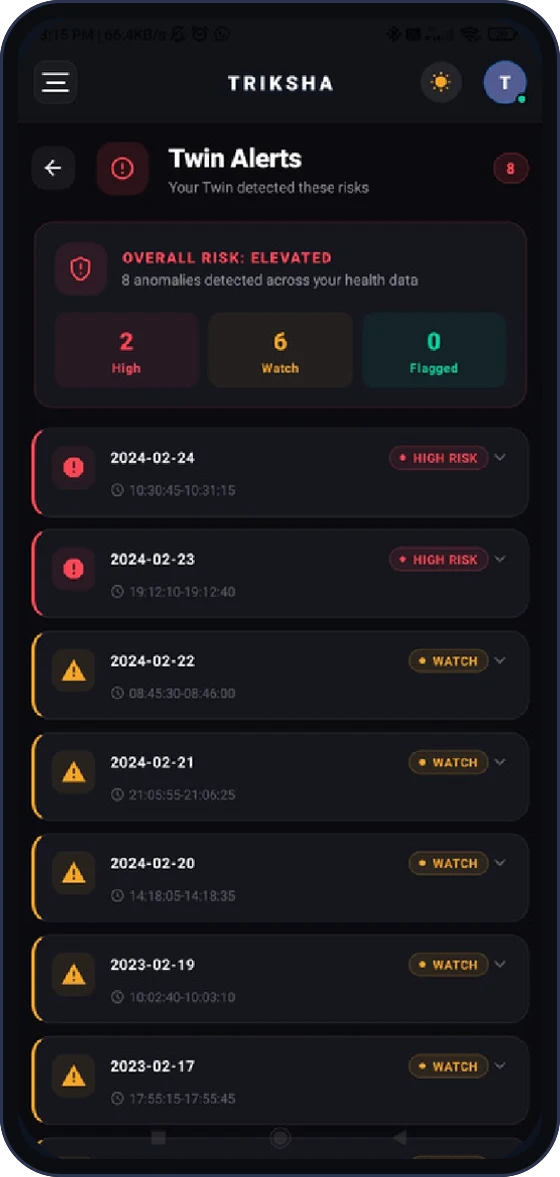
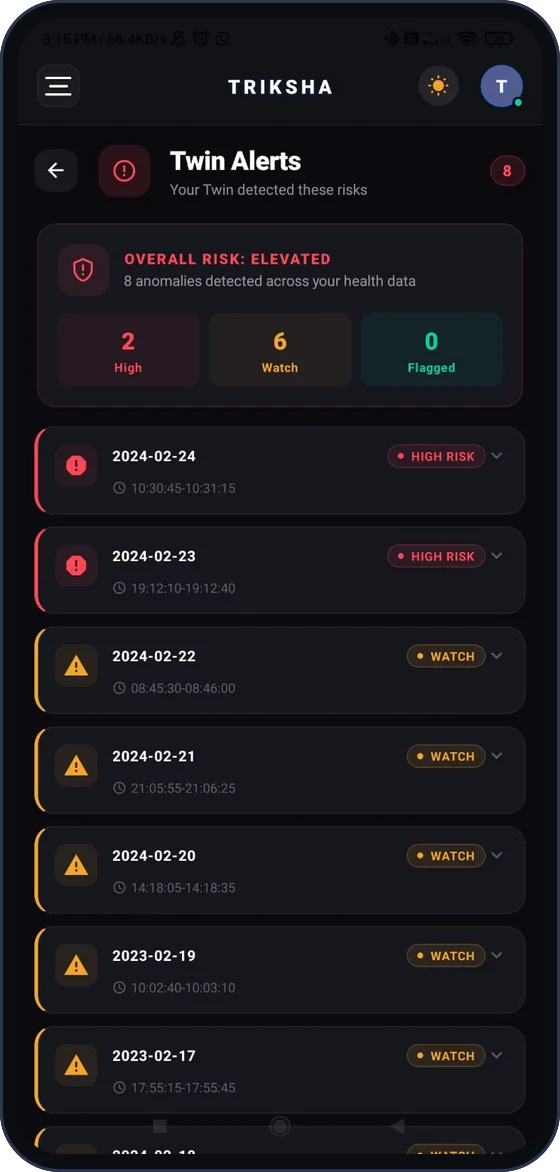
Use clear Twin Alerts screenshot in How it works step 3

diff --git a/frontend/src/components/site/HowItWorks.tsx b/frontend/src/components/site/HowItWorks.tsx
@@ -47,7 +47,7 @@ const STEPS: Step[] = [
     alt: "Triksha app Twin Alerts screen listing detected drifts in order of risk",
     kind: "phone",
     width: 560,
-    height: 1177,
+    height: 1172,
   },
 ];
 
